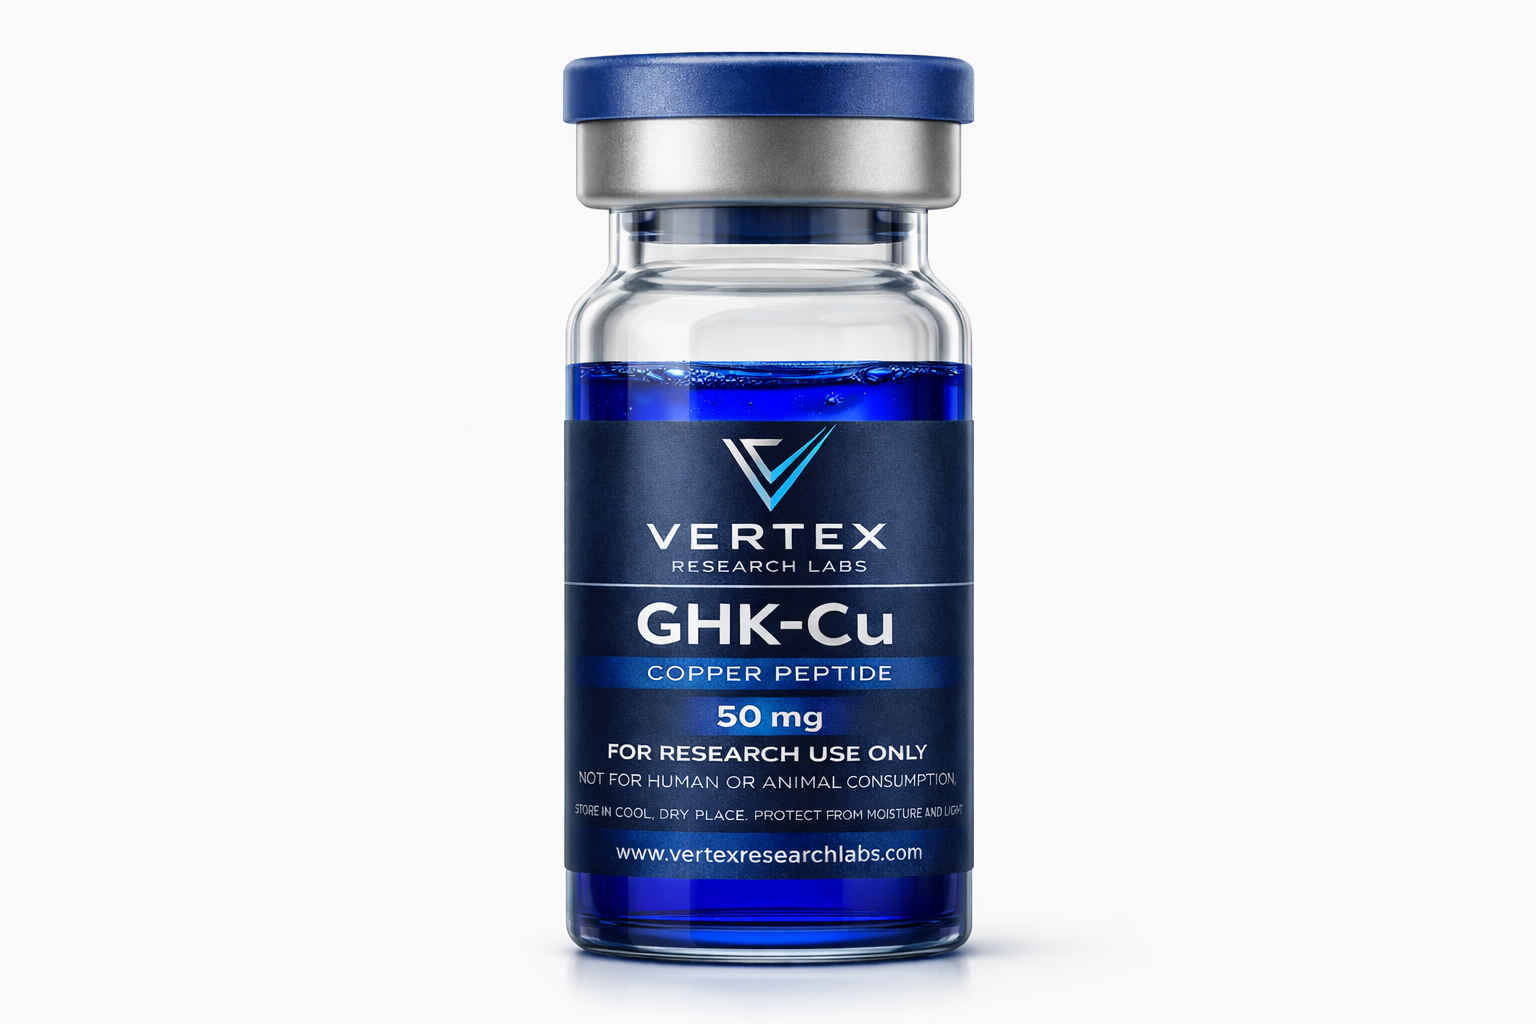
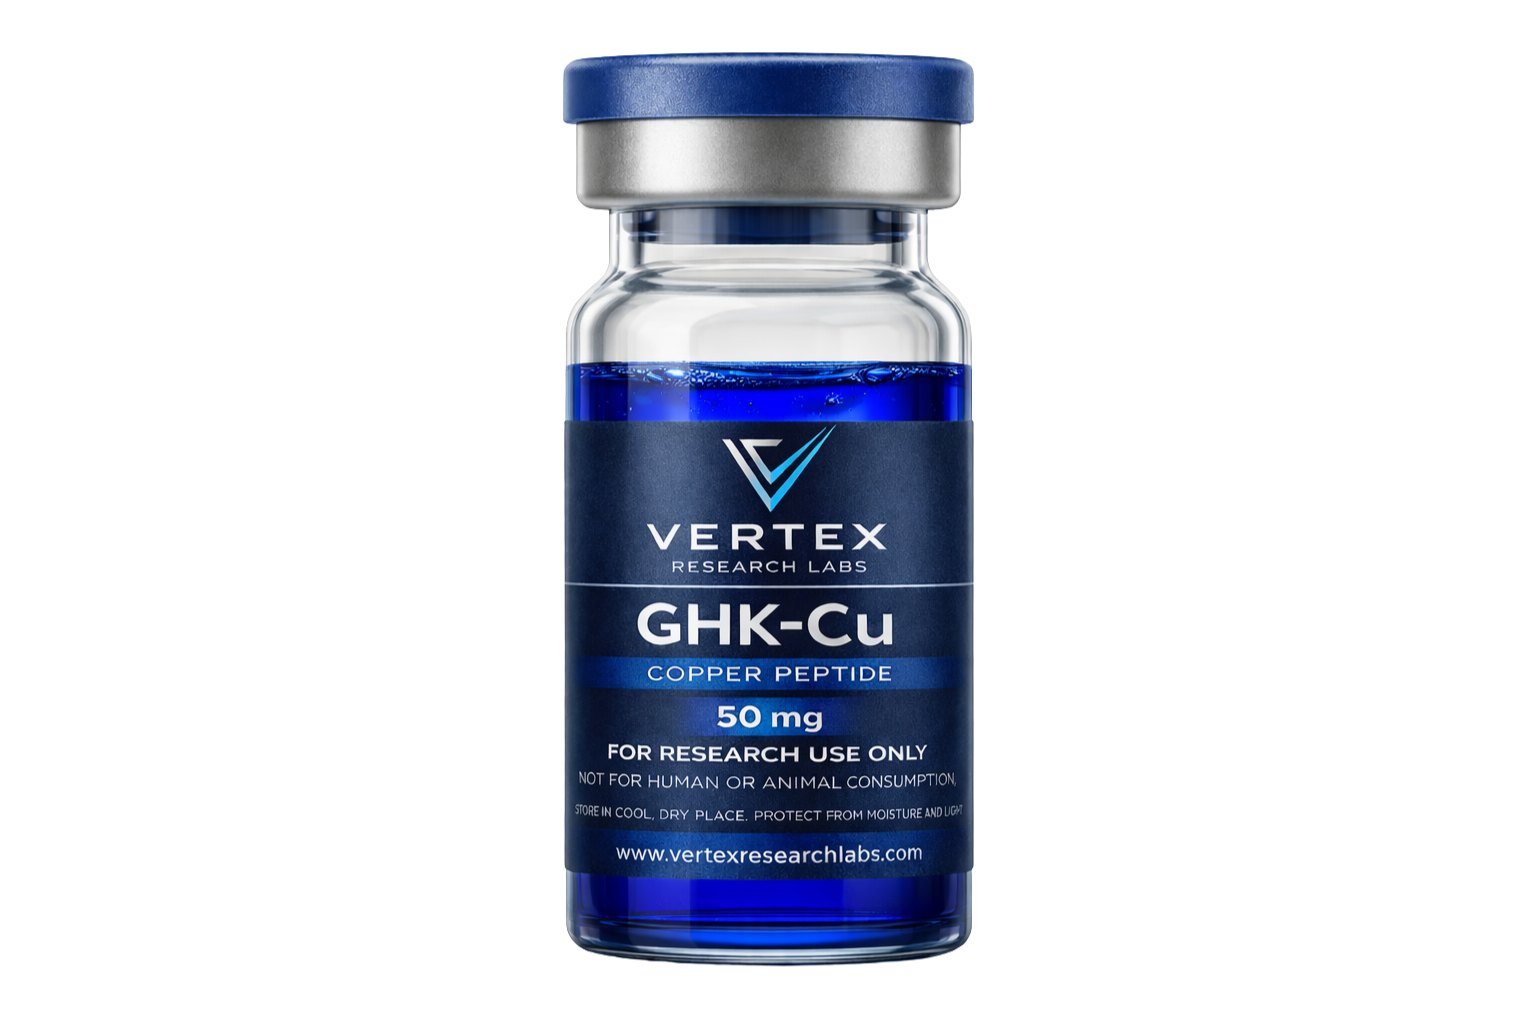
Changes

diff --git a/src/components/Hero.tsx b/src/components/Hero.tsx
@@ -68,91 +68,94 @@ const Hero = () => {
         {/* Molecular background lines */}
         <MolecularLines scrollProgress={scrollYProgress} />
 
-        {/* Vial scene */}
-        <HeroVialScene scrollProgress={scrollYProgress} />
+        {/* Main content container - uses flexbox to stack content and vial */}
+        <div className="relative z-30 h-full flex flex-col">
+          {/* Text content - positioned at top */}
+          <motion.div
+            className="flex-shrink-0 pt-20 sm:pt-28"
+            style={{
+              opacity: contentOpacity,
+              scale: contentScale,
+              filter: useTransform(contentBlur, (b) => `blur(${b}px)`),
+            }}
+          >
+            <div className="container mx-auto px-4 sm:px-6">
+              <div className="max-w-3xl mx-auto text-center">
+                {/* Badge */}
+                <div className="inline-flex items-center gap-2 px-3 sm:px-4 py-1.5 sm:py-2 rounded-full bg-secondary/50 border border-border/50 mb-6 sm:mb-8 animate-fade-up opacity-0">
+                  <div className="w-2 h-2 rounded-full bg-primary animate-pulse" aria-hidden="true" />
+                  <span className="text-xs text-muted-foreground tracking-wide uppercase">
+                    Research Use Only
+                  </span>
+                </div>
 
-        {/* Purity display overlay */}
-        <PurityDisplay scrollProgress={scrollYProgress} />
+                {/* Main heading */}
+                <h1 className="text-3xl sm:text-4xl md:text-5xl lg:text-6xl font-semibold text-foreground leading-tight tracking-tight mb-4 sm:mb-6 animate-fade-up opacity-0 stagger-1">
+                  <span className="block">High-Purity Peptide</span>
+                  <span className="block gradient-text">Research Materials</span>
+                </h1>
 
-        {/* Main content - fades out during scroll */}
-        <motion.div
-          className="relative z-30 h-full flex items-center justify-center"
-          style={{
-            opacity: contentOpacity,
-            scale: contentScale,
-            filter: useTransform(contentBlur, (b) => `blur(${b}px)`),
-          }}
-        >
-          <div className="container mx-auto px-4 sm:px-6 py-20 sm:py-32">
-            <div className="max-w-3xl mx-auto text-center">
-              {/* Badge */}
-              <div className="inline-flex items-center gap-2 px-3 sm:px-4 py-1.5 sm:py-2 rounded-full bg-secondary/50 border border-border/50 mb-6 sm:mb-8 animate-fade-up opacity-0">
-                <div className="w-2 h-2 rounded-full bg-primary animate-pulse" aria-hidden="true" />
-                <span className="text-xs text-muted-foreground tracking-wide uppercase">
-                  Research Use Only
-                </span>
-              </div>
+                {/* Subheading */}
+                <p className="text-base sm:text-lg md:text-xl text-muted-foreground max-w-xl mx-auto mb-8 sm:mb-10 animate-fade-up opacity-0 stagger-2 px-2 sm:px-0">
+                  Analytical-grade peptides for laboratory research applications.
+                  Verified purity. Comprehensive documentation.
+                </p>
 
-              {/* Main heading */}
-              <h1 className="text-3xl sm:text-4xl md:text-5xl lg:text-6xl font-semibold text-foreground leading-tight tracking-tight mb-4 sm:mb-6 animate-fade-up opacity-0 stagger-1">
-                <span className="block">High-Purity Peptide</span>
-                <span className="block gradient-text">Research Materials</span>
-              </h1>
+                {/* CTA Buttons */}
+                <div className="flex flex-col sm:flex-row items-center justify-center gap-3 sm:gap-4 animate-fade-up opacity-0 stagger-3 px-4 sm:px-0">
+                  <Button
+                    variant="hero"
+                    size="lg"
+                    asChild
+                    className="w-full sm:w-auto min-h-[48px] text-base"
+                  >
+                    <a href="#products">View Products</a>
+                  </Button>
+                  <Button
+                    variant="heroOutline"
+                    size="lg"
+                    asChild
+                    className="w-full sm:w-auto min-h-[48px] text-base"
+                  >
+                    <a href="#quality">Quality Standards</a>
+                  </Button>
+                </div>
 
-              {/* Subheading */}
-              <p className="text-base sm:text-lg md:text-xl text-muted-foreground max-w-xl mx-auto mb-8 sm:mb-10 animate-fade-up opacity-0 stagger-2 px-2 sm:px-0">
-                Analytical-grade peptides for laboratory research applications.
-                Verified purity. Comprehensive documentation.
-              </p>
-
-              {/* CTA Buttons */}
-              <div className="flex flex-col sm:flex-row items-center justify-center gap-3 sm:gap-4 animate-fade-up opacity-0 stagger-3 px-4 sm:px-0">
-                <Button
-                  variant="hero"
-                  size="lg"
-                  asChild
-                  className="w-full sm:w-auto min-h-[48px] text-base"
-                >
-                  <a href="#products">View Products</a>
-                </Button>
-                <Button
-                  variant="heroOutline"
-                  size="lg"
-                  asChild
-                  className="w-full sm:w-auto min-h-[48px] text-base"
-                >
-                  <a href="#quality">Quality Standards</a>
-                </Button>
-              </div>
-
-              {/* Trust Indicators */}
-              <div className="mt-10 sm:mt-14 animate-fade-up opacity-0 stagger-4">
-                <div className="flex flex-wrap items-center justify-center gap-x-6 gap-y-3 sm:gap-x-8">
-                  <div className="flex items-center gap-2 text-muted-foreground/70">
-                    <Microscope size={14} className="text-muted-foreground/50" />
-                    <span className="text-xs tracking-wide">Independent Analytical Testing</span>
-                  </div>
-                  <div className="flex items-center gap-2 text-muted-foreground/70">
-                    <FileCheck size={14} className="text-muted-foreground/50" />
-                    <span className="text-xs tracking-wide">Certificates of Analysis</span>
-                  </div>
-                  <div className="flex items-center gap-2 text-muted-foreground/70">
-                    <FlaskConical size={14} className="text-muted-foreground/50" />
-                    <span className="text-xs tracking-wide">Research Use Only</span>
-                  </div>
-                  <div className="flex items-center gap-2 text-muted-foreground/70">
-                    <Shield size={14} className="text-muted-foreground/50" />
-                    <span className="text-xs tracking-wide">Quality-Controlled Supply</span>
-                  </div>
-                  <div className="flex items-center gap-2 text-muted-foreground/70">
-                    <Package size={14} className="text-muted-foreground/50" />
-                    <span className="text-xs tracking-wide">Secure & Discreet Shipping</span>
+                {/* Trust Indicators */}
+                <div className="mt-8 sm:mt-10 animate-fade-up opacity-0 stagger-4">
+                  <div className="flex flex-wrap items-center justify-center gap-x-6 gap-y-3 sm:gap-x-8">
+                    <div className="flex items-center gap-2 text-muted-foreground/70">
+                      <Microscope size={14} className="text-muted-foreground/50" />
+                      <span className="text-xs tracking-wide">Independent Analytical Testing</span>
+                    </div>
+                    <div className="flex items-center gap-2 text-muted-foreground/70">
+                      <FileCheck size={14} className="text-muted-foreground/50" />
+                      <span className="text-xs tracking-wide">Certificates of Analysis</span>
+                    </div>
+                    <div className="flex items-center gap-2 text-muted-foreground/70">
+                      <FlaskConical size={14} className="text-muted-foreground/50" />
+                      <span className="text-xs tracking-wide">Research Use Only</span>
+                    </div>
+                    <div className="flex items-center gap-2 text-muted-foreground/70">
+                      <Shield size={14} className="text-muted-foreground/50" />
+                      <span className="text-xs tracking-wide">Quality-Controlled Supply</span>
+                    </div>
+                    <div className="flex items-center gap-2 text-muted-foreground/70">
+                      <Package size={14} className="text-muted-foreground/50" />
+                      <span className="text-xs tracking-wide">Secure & Discreet Shipping</span>
+                    </div>
                   </div>
                 </div>
               </div>
             </div>
+          </motion.div>
+
+          {/* Vial scene - positioned below content */}
+          <div className="flex-1 relative min-h-[300px]">
+            <HeroVialScene scrollProgress={scrollYProgress} />
+            <PurityDisplay scrollProgress={scrollYProgress} />
           </div>
-        </motion.div>
+        </div>
 
         {/* Scroll indicator - visible only at start */}
         <motion.div

diff --git a/src/components/hero/HeroVialScene.tsx b/src/components/hero/HeroVialScene.tsx
@@ -6,26 +6,20 @@ interface HeroVialSceneProps {
 }
 
 const HeroVialScene = ({ scrollProgress }: HeroVialSceneProps) => {
-  // Stage 1-2: Initial floating and rotation (0-25%)
-  const initialScale = useTransform(scrollProgress, [0, 0.15], [0.85, 0.9]);
-  
   // Stage 2: Rotation effect (15-40%)
   const rotateY = useTransform(scrollProgress, [0.1, 0.25, 0.4], [0, 12, 0]);
   const rotateX = useTransform(scrollProgress, [0.15, 0.3, 0.45], [0, -5, 0]);
   
-  // Stage 3-4: Zoom toward purity (40-75%)
-  const zoomScale = useTransform(scrollProgress, [0.35, 0.65], [0.9, 1.8]);
-  
-  // Combined scale
+  // Combined scale - starts smaller, grows during scroll
   const scale = useTransform(scrollProgress, (progress) => {
     if (progress < 0.35) {
-      return 0.85 + progress * 0.14; // 0.85 to ~0.9
+      return 0.9 + progress * 0.2; // 0.9 to ~0.97
     }
-    return 0.9 + (progress - 0.35) * 3; // 0.9 to ~2.85
+    return 0.97 + (progress - 0.35) * 2.5; // 0.97 to ~2.6
   });
   
   // Vertical position - moves up as we zoom
-  const y = useTransform(scrollProgress, [0, 0.5, 0.8], ["0%", "-5%", "-15%"]);
+  const y = useTransform(scrollProgress, [0, 0.5, 0.8], ["0%", "-10%", "-25%"]);
   
   // Opacity - fade slightly during final stage to emphasize purity number
   const opacity = useTransform(scrollProgress, [0, 0.6, 0.85, 1], [1, 1, 0.4, 0.3]);
@@ -36,9 +30,12 @@ const HeroVialScene = ({ scrollProgress }: HeroVialSceneProps) => {
   // Glow effect intensity
   const glowOpacity = useTransform(scrollProgress, [0.3, 0.5], [0, 0.6]);
 
+  // Floating animation for initial state
+  const floatY = useTransform(scrollProgress, [0, 0.15], [0, 1]);
+
   return (
     <motion.div
-      className="absolute inset-0 flex items-center justify-center pointer-events-none z-10"
+      className="absolute inset-0 flex items-start justify-center pointer-events-none pt-4"
       style={{
         perspective: "1200px",
       }}
@@ -55,11 +52,21 @@ const HeroVialScene = ({ scrollProgress }: HeroVialSceneProps) => {
       >
         {/* Glow effect behind vial */}
         <motion.div
-          className="absolute inset-0 -inset-x-8 -inset-y-12 rounded-full"
+          className="absolute inset-0 -inset-x-12 -inset-y-16 rounded-full"
           style={{
-            background: "radial-gradient(ellipse at center, hsl(var(--primary) / 0.15) 0%, transparent 70%)",
+            background: "radial-gradient(ellipse at center, hsl(var(--primary) / 0.2) 0%, transparent 70%)",
             opacity: glowOpacity,
-            filter: "blur(20px)",
+            filter: "blur(30px)",
+          }}
+        />
+        
+        {/* Subtle drop shadow for depth */}
+        <motion.div
+          className="absolute bottom-0 left-1/2 -translate-x-1/2 w-[60%] h-8 rounded-[100%]"
+          style={{
+            background: "radial-gradient(ellipse at center, hsl(var(--foreground) / 0.15) 0%, transparent 70%)",
+            filter: "blur(8px)",
+            opacity: useTransform(scrollProgress, [0, 0.5], [0.6, 0.2]),
           }}
         />
         
@@ -67,27 +74,29 @@ const HeroVialScene = ({ scrollProgress }: HeroVialSceneProps) => {
         <motion.img
           src={heroVial}
           alt="Research peptide vial"
-          className="relative w-auto h-[280px] md:h-[360px] lg:h-[420px] object-contain drop-shadow-2xl"
+          className="relative w-auto h-[240px] md:h-[320px] lg:h-[380px] object-contain"
           style={{
             opacity,
-            filter: useTransform(blur, (b) => `blur(${b}px)`),
+            filter: useTransform(blur, (b) => `blur(${b}px) drop-shadow(0 20px 40px hsl(var(--foreground) / 0.1))`),
           }}
           draggable={false}
         />
         
-        {/* Glass reflection overlay */}
+        {/* Glass reflection overlay - subtle shimmer effect */}
         <motion.div
           className="absolute inset-0 pointer-events-none"
           style={{
             background: `linear-gradient(
-              135deg,
+              120deg,
               transparent 0%,
-              transparent 40%,
-              hsl(0 0% 100% / 0.1) 45%,
-              transparent 50%,
+              transparent 35%,
+              hsl(0 0% 100% / 0.08) 40%,
+              hsl(0 0% 100% / 0.15) 45%,
+              hsl(0 0% 100% / 0.08) 50%,
+              transparent 55%,
               transparent 100%
             )`,
-            opacity: useTransform(rotateY, [-15, 0, 15], [0.3, 0, 0.3]),
+            opacity: useTransform(rotateY, [-15, 0, 15], [0.5, 0.2, 0.5]),
           }}
         />
       </motion.div>
